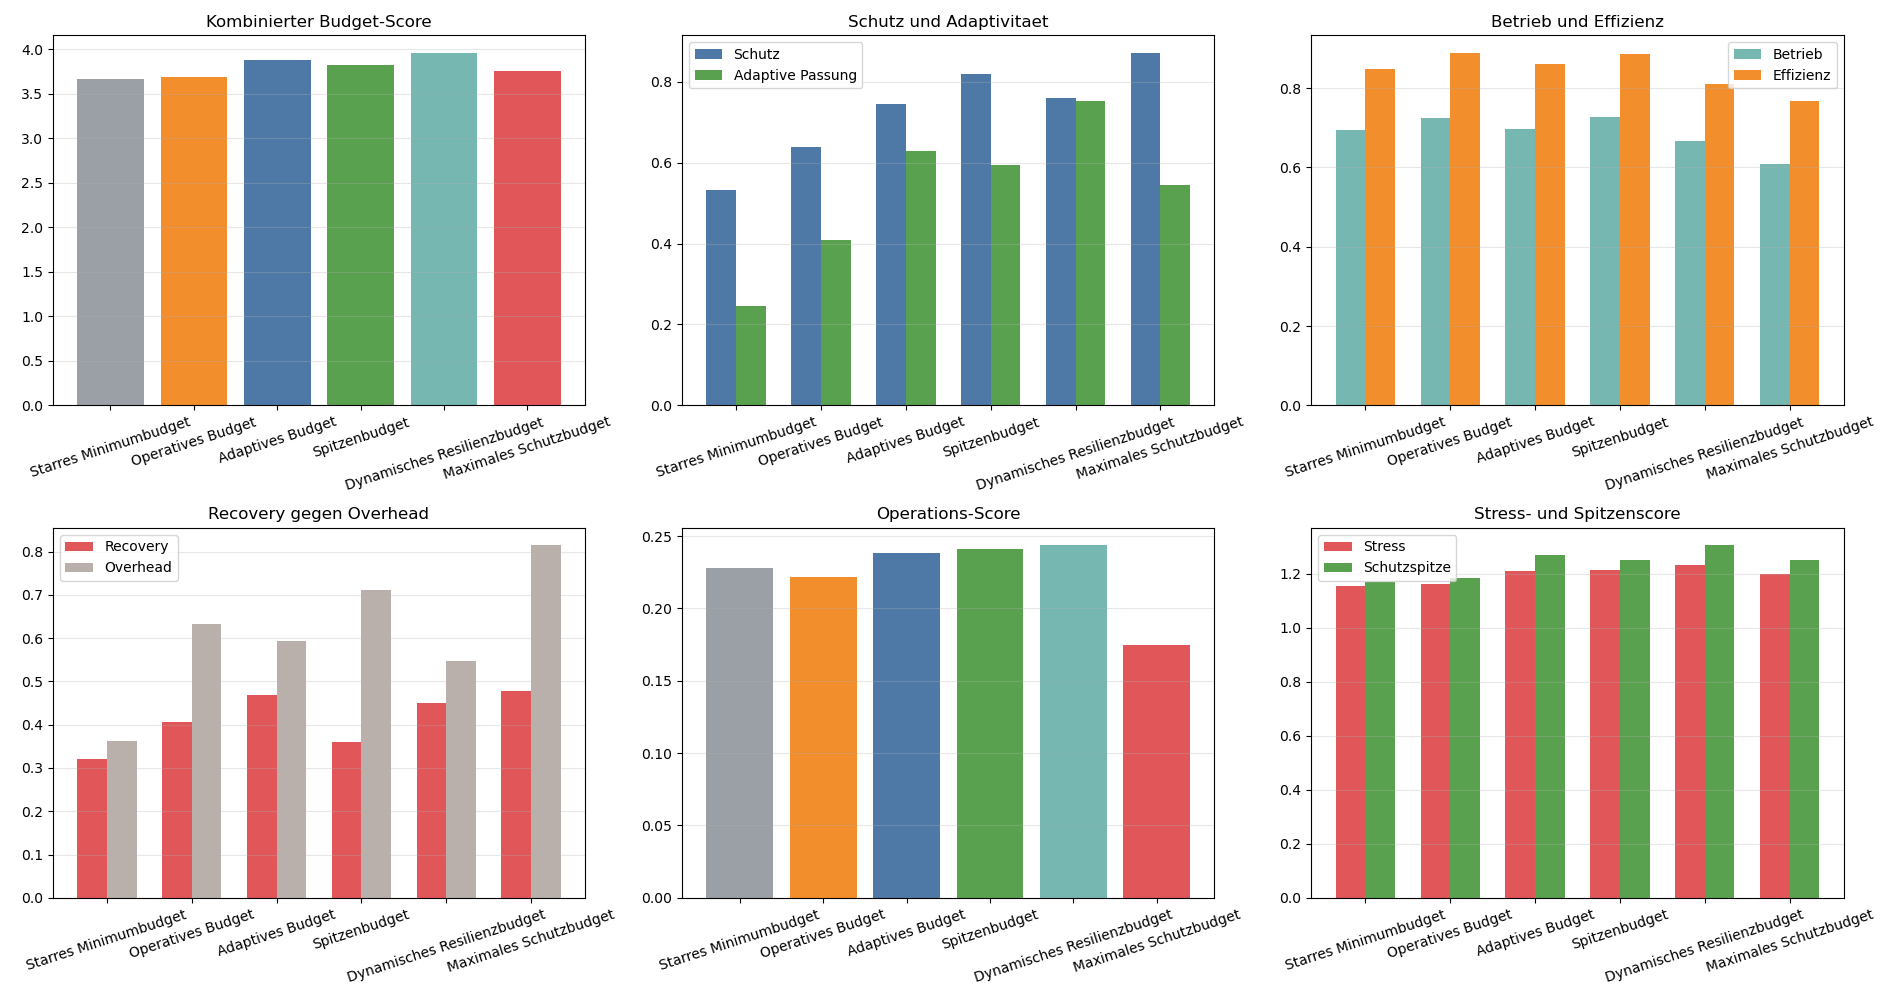
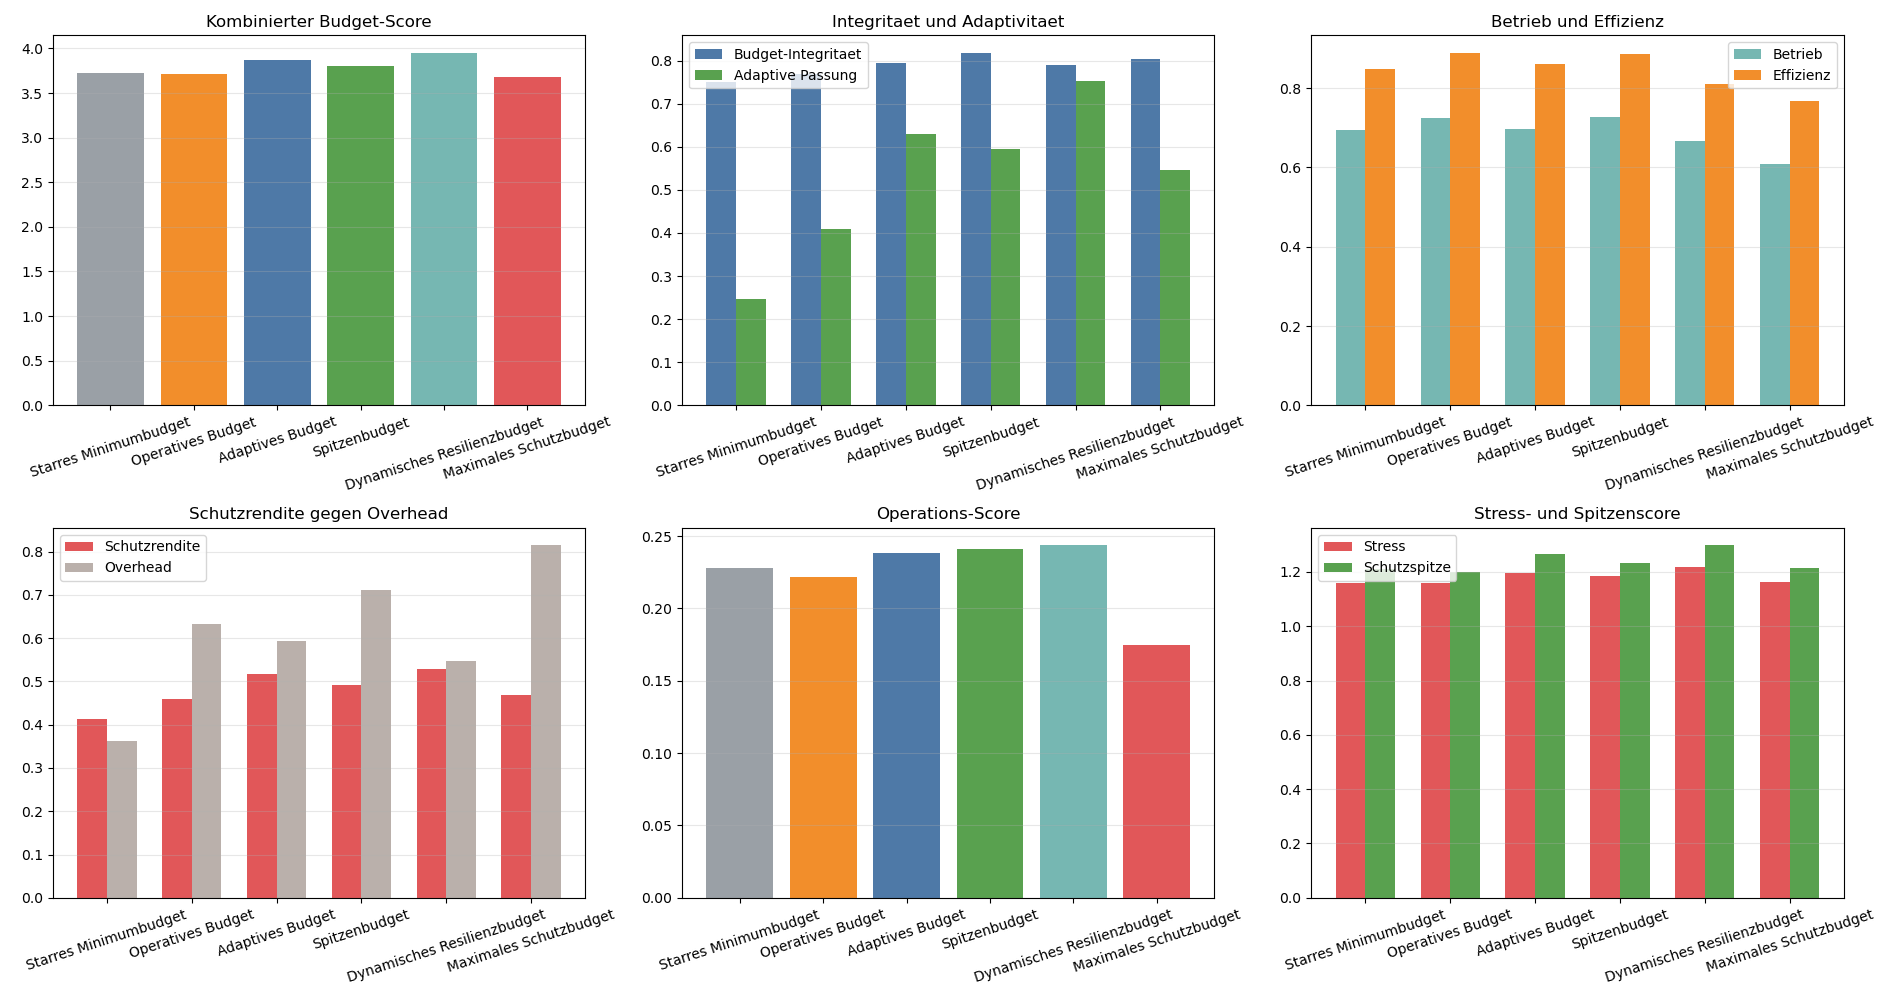
Refine resilience budget return metrics

diff --git a/schwarm_resilienzbudget.py b/schwarm_resilienzbudget.py
@@ -358,6 +358,28 @@ def budget_metrics(config, result, params, profile, kontext):
             ]
         )
     )
+    budget_integrity = clamp01(
+        mittelwert(
+            [
+                protection_strength,
+                1.0 - workflow.get('misinformation_corruption_mean', 0.0),
+                1.0 - workflow.get('cluster_compromise_mean', 0.0),
+                workflow.get('trust_shield_mean', 0.0),
+                efficiency_value,
+            ]
+        )
+    )
+    protection_return = clamp01(
+        mittelwert(
+            [
+                adaptive_fit,
+                operational_retention,
+                recovery_margin,
+                efficiency_value,
+                1.0 - budget_overhead if 'budget_overhead' in locals() else 0.0,
+            ]
+        )
+    )
     budget_overhead = clamp01(
         mittelwert(
             [
@@ -389,6 +411,8 @@ def budget_metrics(config, result, params, profile, kontext):
         'operational_retention': operational_retention,
         'recovery_margin': recovery_margin,
         'efficiency_value': efficiency_value,
+        'budget_integrity': budget_integrity,
+        'protection_return': protection_return,
         'budget_overhead': budget_overhead,
     }
 
@@ -443,16 +467,15 @@ def context_score(kontext_name, result, agent_count):
     if kontext_name == 'stress':
         return (
             base
-            + 0.18 * metrics['protection_strength']
+            + 0.18 * metrics['budget_integrity']
             + 0.12 * metrics['adaptive_fit']
-            + 0.08 * metrics['efficiency_value']
-            - 0.12 * metrics['corruption_mean']
+            + 0.08 * metrics['protection_return']
             - 0.10 * metrics['budget_overhead']
         )
     if kontext_name == 'recovery':
         return (
             base
-            + 0.18 * metrics['recovery_margin']
+            + 0.18 * metrics['protection_return']
             + 0.12 * metrics['adaptive_fit']
             + 0.08 * metrics['operational_retention']
             - 0.12 * failed_share
@@ -460,9 +483,9 @@ def context_score(kontext_name, result, agent_count):
         )
     return (
         base
-        + 0.22 * metrics['protection_strength']
+        + 0.22 * metrics['budget_integrity']
         + 0.16 * metrics['adaptive_fit']
-        + 0.12 * metrics['recovery_margin']
+        + 0.12 * metrics['protection_return']
         - 0.12 * metrics['budget_overhead']
         - 0.10 * failed_share
     )
@@ -476,6 +499,8 @@ def summarize_runs(runs, profile, context_list, agent_count):
         'operational_retention': {},
         'recovery_margin': {},
         'efficiency_value': {},
+        'budget_integrity': {},
+        'protection_return': {},
         'budget_overhead': {},
     }
 
@@ -530,9 +555,9 @@ def main():
         summaries.append(summary)
         print(
             f"{summary['label']:<29} Score={summary['combined_score']:+.3f} | "
-            f"Schutz={summary['protection_strength']['stress']:.2f} | "
+            f"Integritaet={summary['budget_integrity']['stress']:.2f} | "
             f"Adaptiv={summary['adaptive_fit']['surge']:.2f} | "
-            f"Betrieb={summary['operational_retention']['operations']:.2f}"
+            f"Rendite={summary['protection_return']['recovery']:.2f}"
         )
 
     best = max(summaries, key=lambda item: item['combined_score'])
@@ -544,9 +569,9 @@ def main():
         f"Delta zum operativen Budget {best['combined_score'] - baseline['combined_score']:+.3f}"
     )
     print(
-        f"Schutz {best['protection_strength']['stress']:.2f}, "
+        f"Integritaet {best['budget_integrity']['stress']:.2f}, "
         f"Adaptiv {best['adaptive_fit']['surge']:.2f}, "
-        f"Betrieb {best['operational_retention']['operations']:.2f}"
+        f"Rendite {best['protection_return']['recovery']:.2f}"
     )
 
     labels = [item['label'] for item in summaries]
@@ -564,9 +589,9 @@ def main():
 
     axes[0, 1].bar(
         x - width / 2,
-        [item['protection_strength']['stress'] for item in summaries],
+        [item['budget_integrity']['stress'] for item in summaries],
         width,
-        label='Schutz',
+        label='Budget-Integritaet',
         color='#4e79a7',
     )
     axes[0, 1].bar(
@@ -576,7 +601,7 @@ def main():
         label='Adaptive Passung',
         color='#59a14f',
     )
-    axes[0, 1].set_title('Schutz und Adaptivitaet')
+    axes[0, 1].set_title('Integritaet und Adaptivitaet')
     axes[0, 1].set_xticks(x)
     axes[0, 1].set_xticklabels(labels, rotation=18)
     axes[0, 1].legend()
@@ -604,9 +629,9 @@ def main():
 
     axes[1, 0].bar(
         x - width / 2,
-        [item['recovery_margin']['recovery'] for item in summaries],
+        [item['protection_return']['recovery'] for item in summaries],
         width,
-        label='Recovery',
+        label='Schutzrendite',
         color='#e15759',
     )
     axes[1, 0].bar(
@@ -616,7 +641,7 @@ def main():
         label='Overhead',
         color='#bab0ab',
     )
-    axes[1, 0].set_title('Recovery gegen Overhead')
+    axes[1, 0].set_title('Schutzrendite gegen Overhead')
     axes[1, 0].set_xticks(x)
     axes[1, 0].set_xticklabels(labels, rotation=18)
     axes[1, 0].legend()
